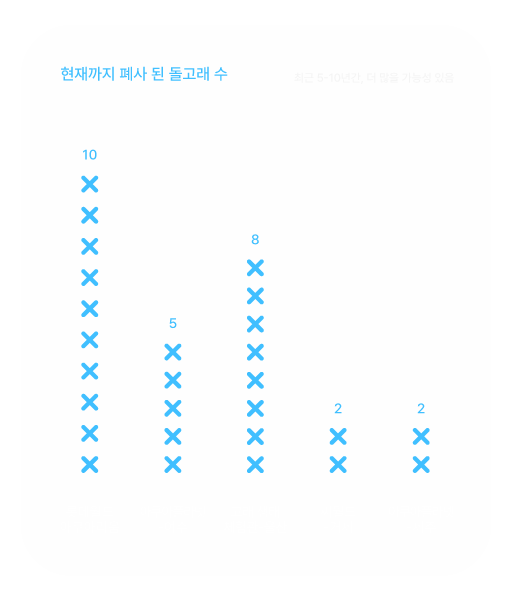
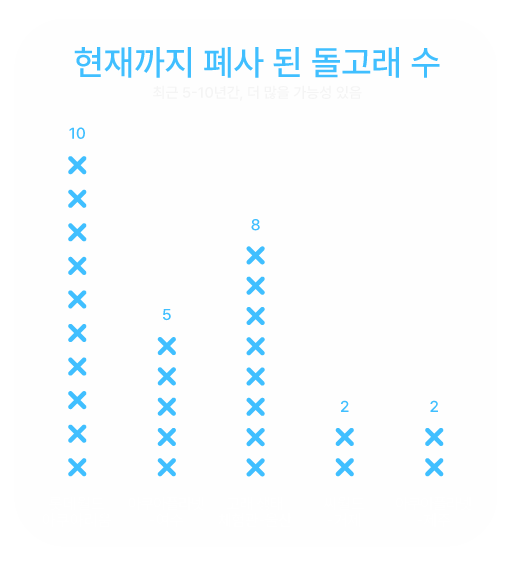
up

diff --git a/dolphin1.html b/dolphin1.html
@@ -25,8 +25,8 @@
 
 *{margin: 0;padding: 0;/*font-family: 'Pretendard';*/}
 html, body {height: 100%;width: 100%;max-width: 650px;margin: 0 auto;position: relative;}
-h2{/*font-family: 'Pretendard';*/font-size: 3rem;}
-p{font-size: 1.2rem;line-height: 1.5rem;margin-bottom: 0.5rem;}
+h2{/*font-family: 'Pretendard';*/font-size: 2.5rem;}
+p{font-size: 1rem;line-height: 1.2rem;margin-bottom: 0.5rem;}
 #s1{background-image:url('/InfoViz-Lab/assets/images/new/1_2.png');}
 #s1 .text_style{position: absolute;top: 5%;z-index: 10;opacity: 0;}
 #s1.add .text_style{animation-delay: 0.5s;animation-name: text1;}
